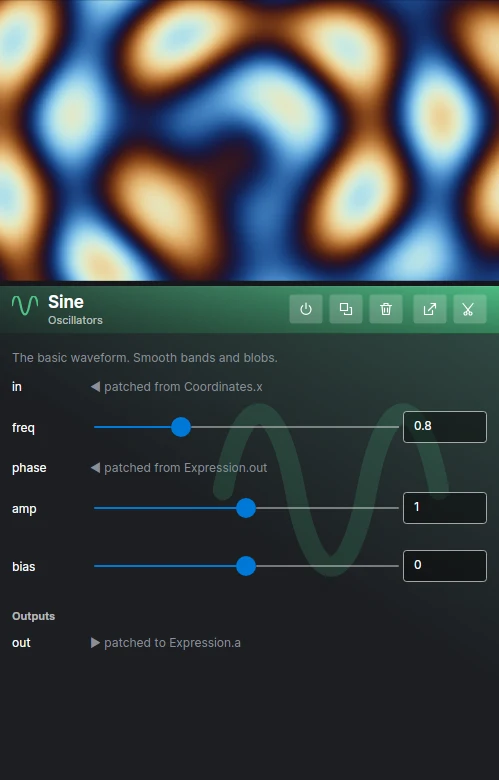
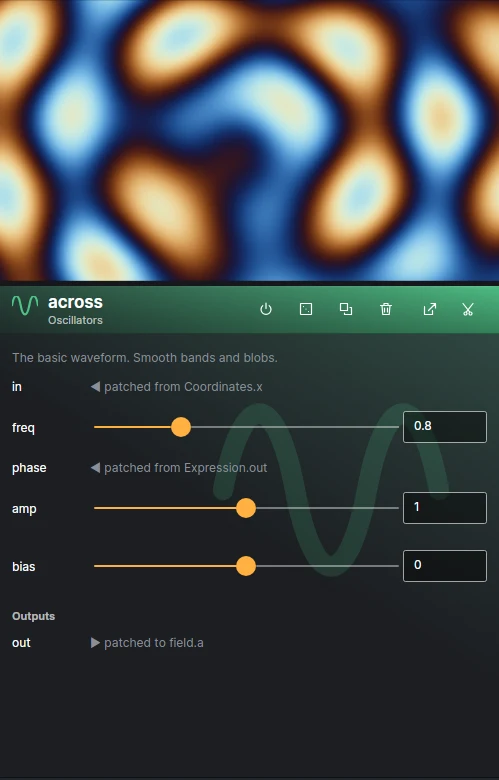
The editor's controls wear Flyback's amber and square corners instead of Fluent's defaults
The theme added Fluent and overrode nothing, so sliders, toggles and focus were the system's blue, every control had Fluent's rounded corners, and the toolbar was a row of identical grey pills. The accent is now Colors.Attention, corners are 2 px, and toolbar and panel glyph buttons have no fill until pointed at or switched on, with dark ink on a toggle that is down.

Claude-Session: https://claude.ai/code/session_013fHfANAUevgdY5GbtmwtPg

diff --git a/site/index.html b/site/index.html
@@ -562,7 +562,7 @@ color.rgb(r: r, g: g, b: b) |> out.color</code></pre>
           <div class="window">
             <a class="zoom" href="assets/shots/plasma-inspector.webp">
               <img loading="lazy" src="assets/shots/plasma-inspector.webp" width="499" height="780"
-                   alt="The preview and, under it, the inspector with a Sine selected: its in patched from Coordinates.x, sliders for freq, amp and bias, phase patched from Expression.out, and under Outputs, out patched to Expression.a.">
+                   alt="The preview and, under it, the inspector with a Sine selected: its in patched from Coordinates.x, sliders for freq, amp and bias, phase patched from Expression.out, and under Outputs, out patched to field.a.">
             </a>
           </div>
         </figure>

diff --git a/src/Flyback.Editor/EditorTheme.cs b/src/Flyback.Editor/EditorTheme.cs
@@ -1,14 +1,19 @@
 using Avalonia;
+using Avalonia.Controls;
+using Avalonia.Controls.Primitives;
+using Avalonia.Media;
 using Avalonia.Markup.Xaml.Styling;
 using Avalonia.Styling;
 using Avalonia.Themes.Fluent;
+using Flyback.Editor.Controls;
+using Colors = Flyback.Ui.Controls.Colors;
 
 namespace Flyback.Editor;
 
 /// <summary>What the editor looks like, for every program that shows it and the tests that build one.</summary>
 internal static class EditorTheme
 {
-    /// <summary>Fluent, dark, and the code editor's own styles.</summary>
+    /// <summary>Fluent, dark, in Flyback's own accent and corners, and the code editor's own styles.</summary>
     /// <remarks>
     /// The code editor's styles come out of its package, loaded in C# rather than
     /// declared in markup (ADR-0016). A new one each time: a style belongs to exactly
@@ -16,11 +21,36 @@ internal static class EditorTheme
     /// </remarks>
     public static void Apply(Application application)
     {
-        application.Styles.Add(new FluentTheme());
+        var fluent = new FluentTheme();
+        fluent.Palettes[ThemeVariant.Dark] = new ColorPaletteResources { Accent = Colors.Attention };
+        application.Styles.Add(fluent);
+
+        var resources = application.Resources;
+        resources["ControlCornerRadius"] = new CornerRadius(2);
+        resources["OverlayCornerRadius"] = new CornerRadius(2);
+        resources["ButtonBackgroundDisabled"] = Brushes.Transparent;
+        resources["ToggleButtonBackgroundDisabled"] = Brushes.Transparent;
+
+        // Dark ink on the amber of a toggle that is down; white on it fails contrast.
+        var ink = new SolidColorBrush(Colors.Window);
+        resources["ToggleButtonForegroundChecked"] = ink;
+        resources["ToggleButtonForegroundCheckedPointerOver"] = ink;
+        resources["ToggleButtonForegroundCheckedPressed"] = ink;
+
+        application.Styles.Add(Bare(x => x.OfType<Button>().Class(ToolbarButtons.Tool)));
+        application.Styles.Add(Bare(x => x.OfType<ToggleButton>().Class(ToolbarButtons.Tool)));
         application.Styles.Add(new StyleInclude(new Uri("avares://Flyback.Editor/"))
         {
             Source = new Uri("avares://AvaloniaEdit/Themes/Fluent/AvaloniaEdit.xaml"),
         });
         application.RequestedThemeVariant = ThemeVariant.Dark;
+    }
+
+    /// <summary>No fill at rest, so a row of tool buttons reads as one bar; hover and a toggle that is down still show one.</summary>
+    private static Style Bare(Func<Selector?, Selector> selector)
+    {
+        var style = new Style(selector);
+        style.Setters.Add(new Setter(TemplatedControl.BackgroundProperty, Brushes.Transparent));
+        return style;
     }
 }

diff --git a/src/Flyback.Editor/Controls/ToolbarButtons.cs b/src/Flyback.Editor/Controls/ToolbarButtons.cs
@@ -21,6 +21,9 @@ internal static class ToolbarButtons
         VerticalAlignment = VerticalAlignment.Center,
     };
 
+    /// <summary>The style class that takes a button's fill away at rest.</summary>
+    internal const string Tool = "tool";
+
     /// <summary>
     /// A toolbar button that is a drawn symbol rather than a word.
     /// </summary>
@@ -40,6 +43,7 @@ internal static class ToolbarButtons
         where T : ContentControl
     {
         button.Name = name;
+        button.Classes.Add(Tool);
         button.Content = content;
         button.Width = 34;
         button.Height = 30;

diff --git a/.claude/skills/site-screenshots/SKILL.md b/.claude/skills/site-screenshots/SKILL.md
@@ -38,7 +38,7 @@ flyback-cli shot --preset "Flyback Theme" -o theme.png --at 30.3 --size 1440x900
 
 Run it from a folder holding the CLI, the editor and the plugins together (a publish, or the editor's build output with `flyback-cli`'s build copied in). A shot has no title bar, says CPU on the status bar, and shows no popup, dropdown or dialog; a picture that needs any of those comes from the real window, by the recipe below.
 
-flyback-theme.webp and plasma.webp (1440x900) are that command as it stands, Plasma at `--at 55.7` with nothing selected. The rest are 1440x900 shots cropped to one part of the window (the panels from row 49 to 829, canvas to 936 across, right column from 941, the picture's row to 330, the inspector from 335): plasma-code is index.html's '# The same patch, as text.' listing saved as a `.fbks` and shot at `--at 55.7`, cropped to (0, 49)-(1440, 335); plasma-inspector is `--preset Plasma --at 55.7 --select Sine`, cropped to (941, 49)-(1440, 829); knob-panel is Slow weather's panel row at `--at 8`, cropped to (8, 712)-(698, 829) to take in the knobs, the die, the arrow and amount and glide; whole-band and euclid-kit are their bundles with every group shut, `--crop`.
+flyback-theme.webp and plasma.webp (1440x900) are that command as it stands, Plasma at `--at 55.7` with nothing selected. The rest are 1440x900 shots cropped to one part of the window (the panels from row 49 to 829, canvas to 936 across, right column from 941, the picture's row to 330, the inspector from 335): plasma-code is index.html's '# The same patch, as text.' listing saved as a `.fbks` and shot at `--at 55.7`, cropped to (0, 49)-(1440, 335); plasma-inspector is `--preset Plasma --at 55.7 --select across`, cropped to (941, 49)-(1440, 829); knob-panel is Slow weather's panel row at `--at 8`, cropped to (8, 712)-(698, 829) to take in the knobs, the die, the arrow and amount and glide; whole-band and euclid-kit are their bundles with every group shut, `--crop`.
 
 The full-window shots in `site/assets/shots` (nebula.webp, whole-band.webp, euclid-kit.webp, the other plasma-*.webp; 1600x863) are the maximized app with a saved preset opened from the command line (`Flyback.exe nebula.fbk`), patch framed, caught at a chosen `t`. `flyback-cli pack --preset <name> -o <name>.fbkb` writes the preset out; for the shots that show shut boxes (whole-band, euclid-kit), set every `Group.Collapsed` in the bundle's `patch.fbk`, since a bundle is a zip. These need the real window, so a stale one goes on the list above.
 

diff --git a/CHANGELOG.md b/CHANGELOG.md
@@ -22,6 +22,7 @@
 - A value being turned can move to another input on the same module without letting go: Tab or Shift+Tab, or the wheel, with a mouse or trackpad; a second finger tapped below or above the turning one by touch. A finger held anywhere on a module turns the input on the row beside it rather than switching the module off while held (Bypass in the inspector does that); zoomed out past the rows, a right-drag or a held finger anywhere on a module turns its first input, and the input turning is ringed and named beside its socket, and its card points at it.
 - Live patching shows only the view that owns the patch: its text when the text is the document, its modules otherwise. F2 no longer swaps them over the picture, and the transport over the picture has no text button.
 - The text view offers what may be typed where the caret is, as you type or on Ctrl+Space: a module's sockets inside its brackets, its outputs after a dot, the names in sight and the modules there are. Inside a call its sockets stand above the caret with the one being filled in bold, and resting the pointer on a word says what it is.
+- The editor's toggles, sliders and focus take Flyback's own amber instead of the system blue, its controls have square corners, and toolbar buttons show no fill until pointed at or switched on.
 
 ### Viewer
 

diff --git a/.claude/skills/site-screenshots/stale.md b/.claude/skills/site-screenshots/stale.md
@@ -3,4 +3,5 @@
 Shots in `site/assets/shots` that no longer match the app and need the real window to retake, waiting for a retake session. One line per shot: the file, where the site uses it, what no longer matches, the date it went stale. A shot comes off the list in the commit that retakes it.
 
 
-- Full-window editor shots that show the transport row (plasma, plasma-code, plasma-inspector, assistant, knob-panel, euclid-kit, whole-band, flyback-theme, as each has it): the row lacks the Live button at its right end. 2026-10-26.
+- Full-window editor shots that show the transport row (assistant, knob-panel, euclid-kit, whole-band, flyback-theme, as each has it): the row lacks the Live button at its right end. 2026-10-26.
+- flyback-theme, knob-panel (index.html), assistant, presets-list (index.html): toolbar buttons have no fill at rest and toggles, sliders and focus are amber, not blue. flyback-theme and knob-panel are `flyback-cli shot` but need the plugin presets, which a plain build's `shot --presets` does not list. 2026-11-02.
